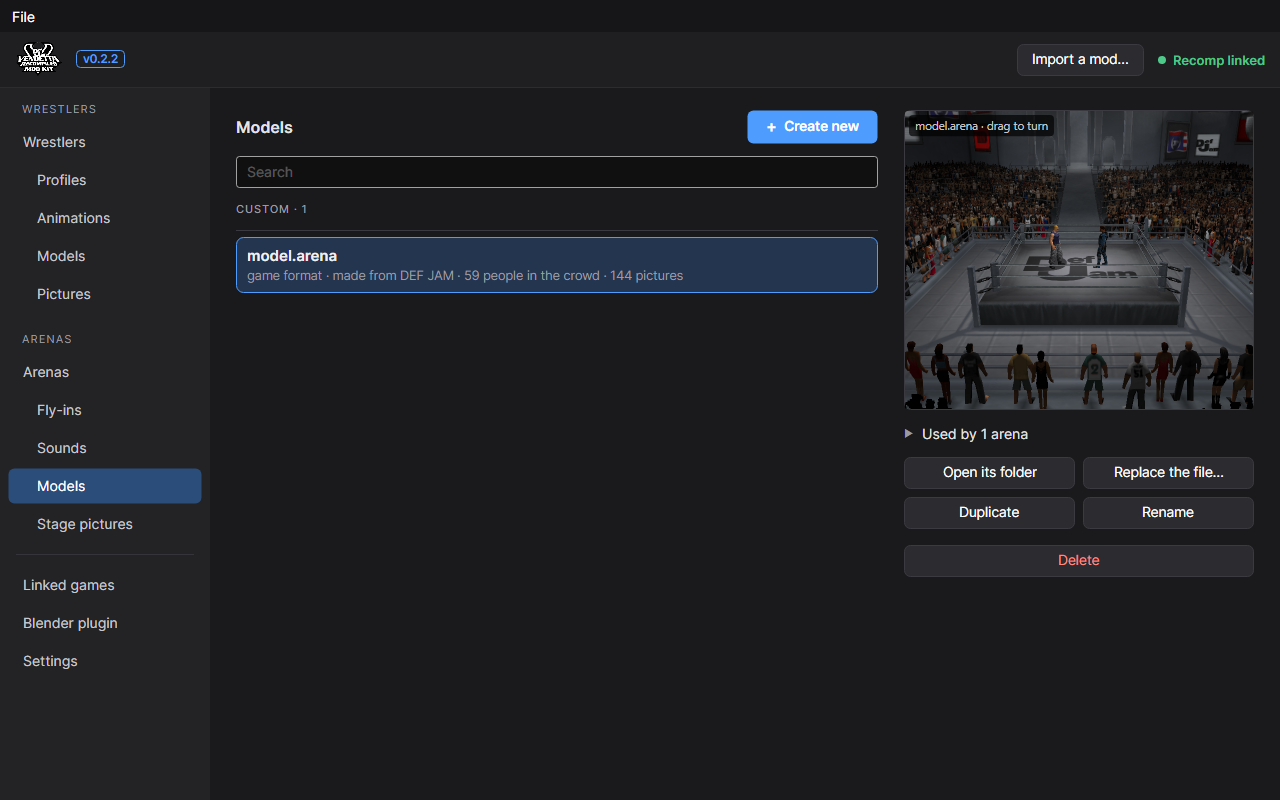
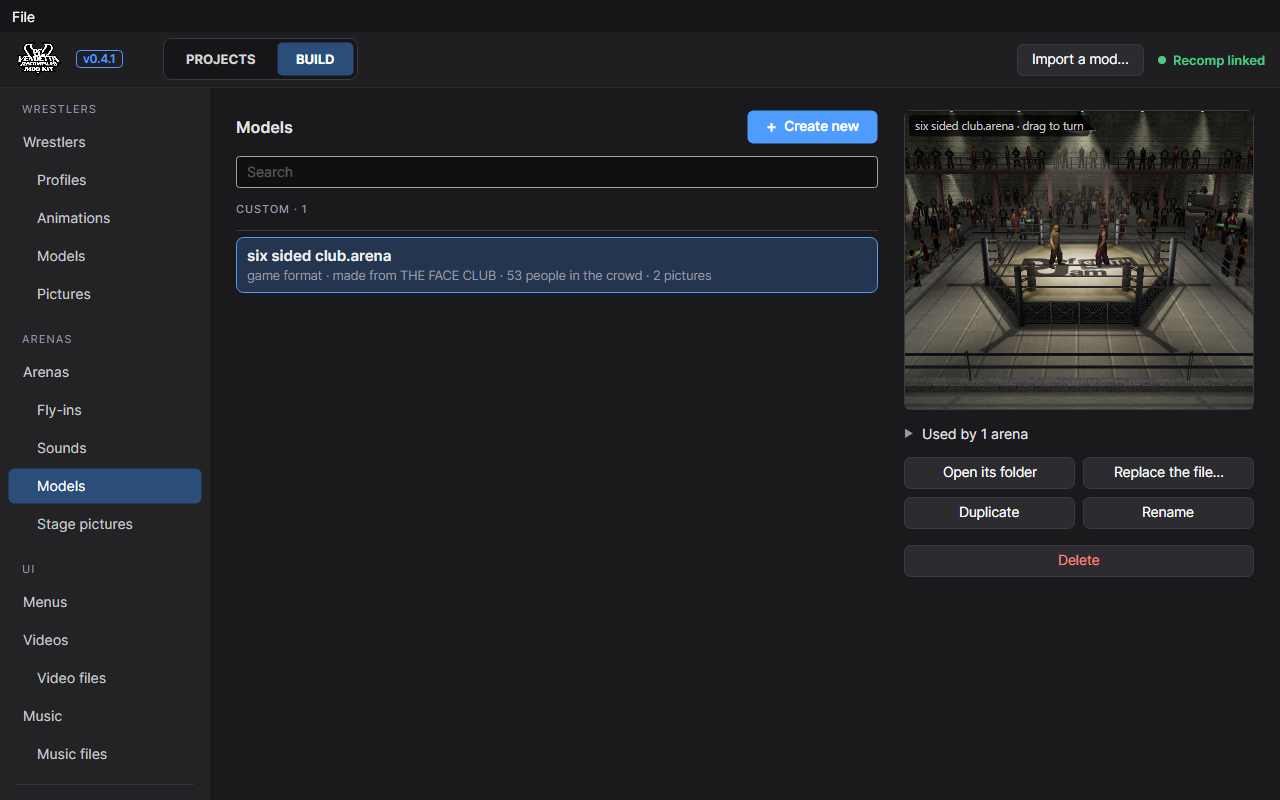
README: the mod kit's pictures redrawn, the six-sided ring and a cage match among the screenshots
- Every mod kit page's picture drawn again from the kit as it is now (PROJECTS and BUILD, the UI section), Linked games too; the arena's page shows the six-sided ring.
- Screenshots: a fight in the six-sided ring and one in the cage in place of two older in-match pictures.

diff --git a/README.md b/README.md
@@ -96,17 +96,17 @@ Vendetta (PlayStation 2, USA, **SLUS-20639**) as an `.iso` or `.chd`, and everyt
 </tr>
 <tr>
 <td><img src="images/game-fight2.jpg" alt="Spider and Briggs on the ropes"></td>
-<td><img src="images/game-combo.jpg" alt="A combo"></td>
+<td><img src="images/game-six-fight.jpg" alt="S-WORD and DABO in the six-sided ring, with the WWF No Mercy camera"></td>
 <td><img src="images/game-wins.jpg" alt="Spider wins"></td>
 </tr>
 <tr>
 <td><img src="images/game-four.jpg" alt="Four players, with the Wrestle Kingdom 2 camera"></td>
 <td><img src="images/game-lift.jpg" alt="Steel lifts Scarface, with the WWF No Mercy camera"></td>
-<td><img src="images/game-blazin.jpg" alt="Joe's Handstand Headshot"></td>
+<td><img src="images/game-cage-fight.jpg" alt="Briggs and Spider in a cage match"></td>
 </tr>
 </table>
 
-<sub>All taken on PC at the default settings: 16×, Sharp 2D, widescreen (the last row also shows the other camera styles).</sub>
+<sub>All taken on PC at the default settings: 16×, Sharp 2D, widescreen (the last two rows also show the other camera styles, the six-sided ring and a cage match).</sub>
 
 ## Install
 
